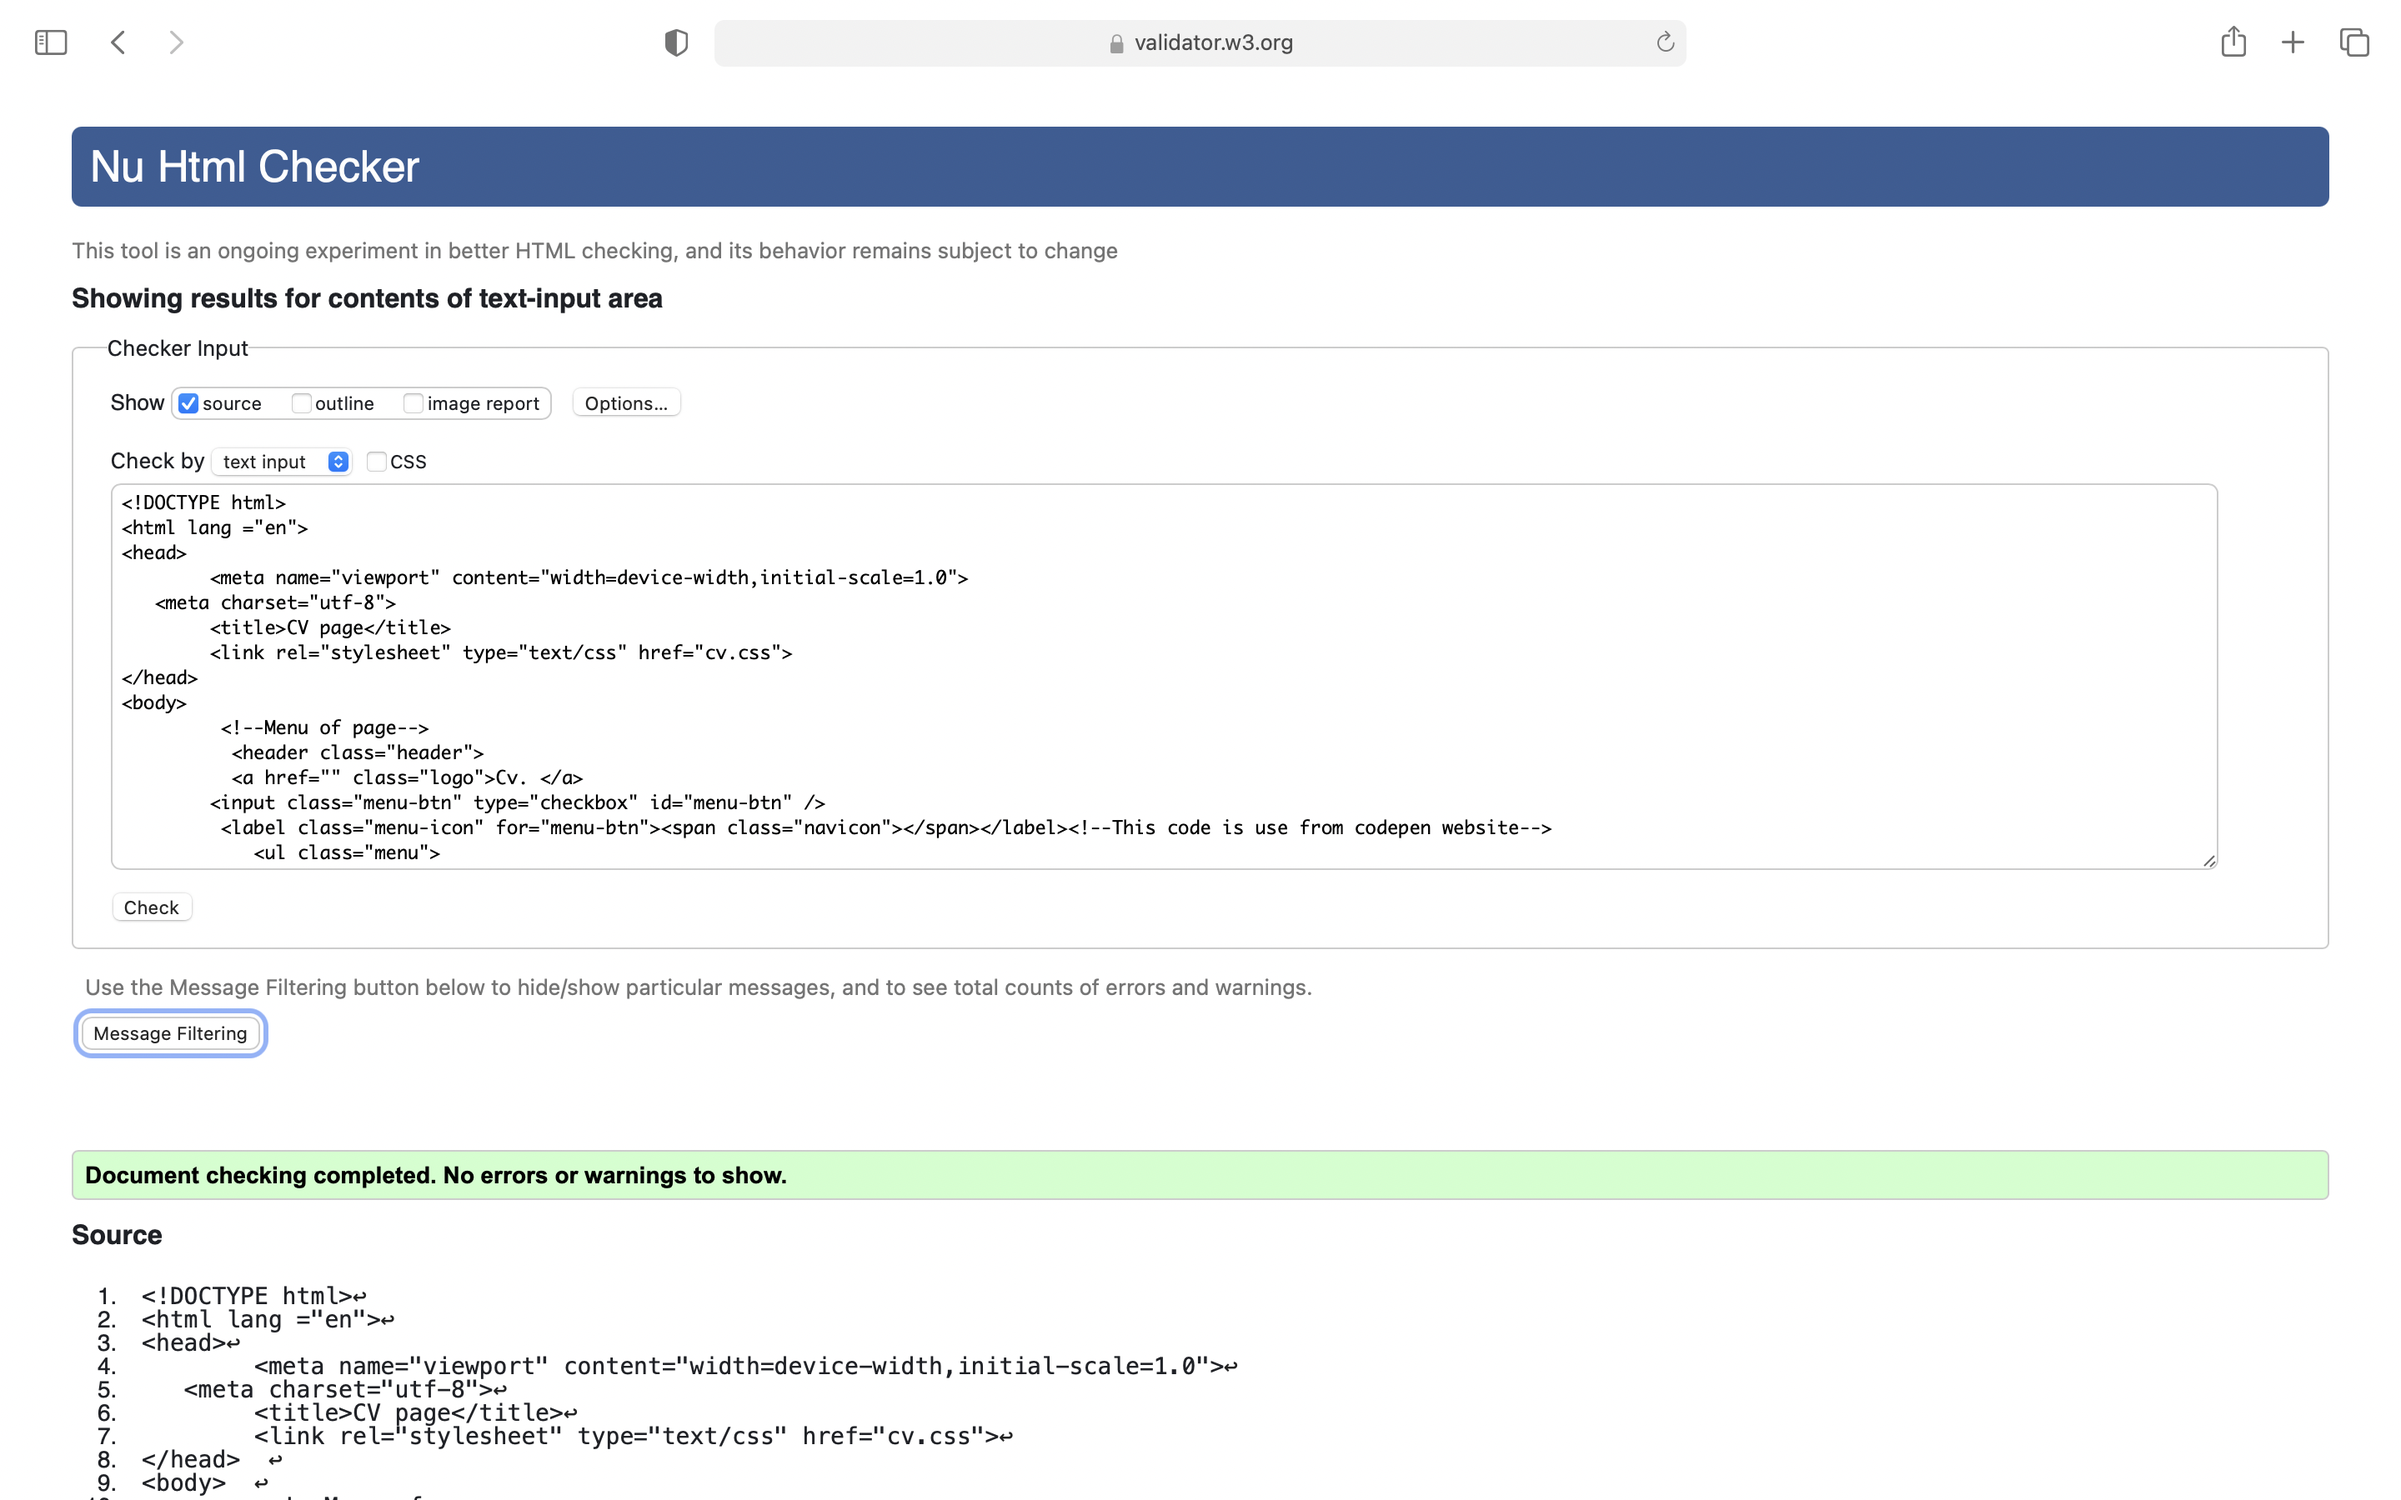
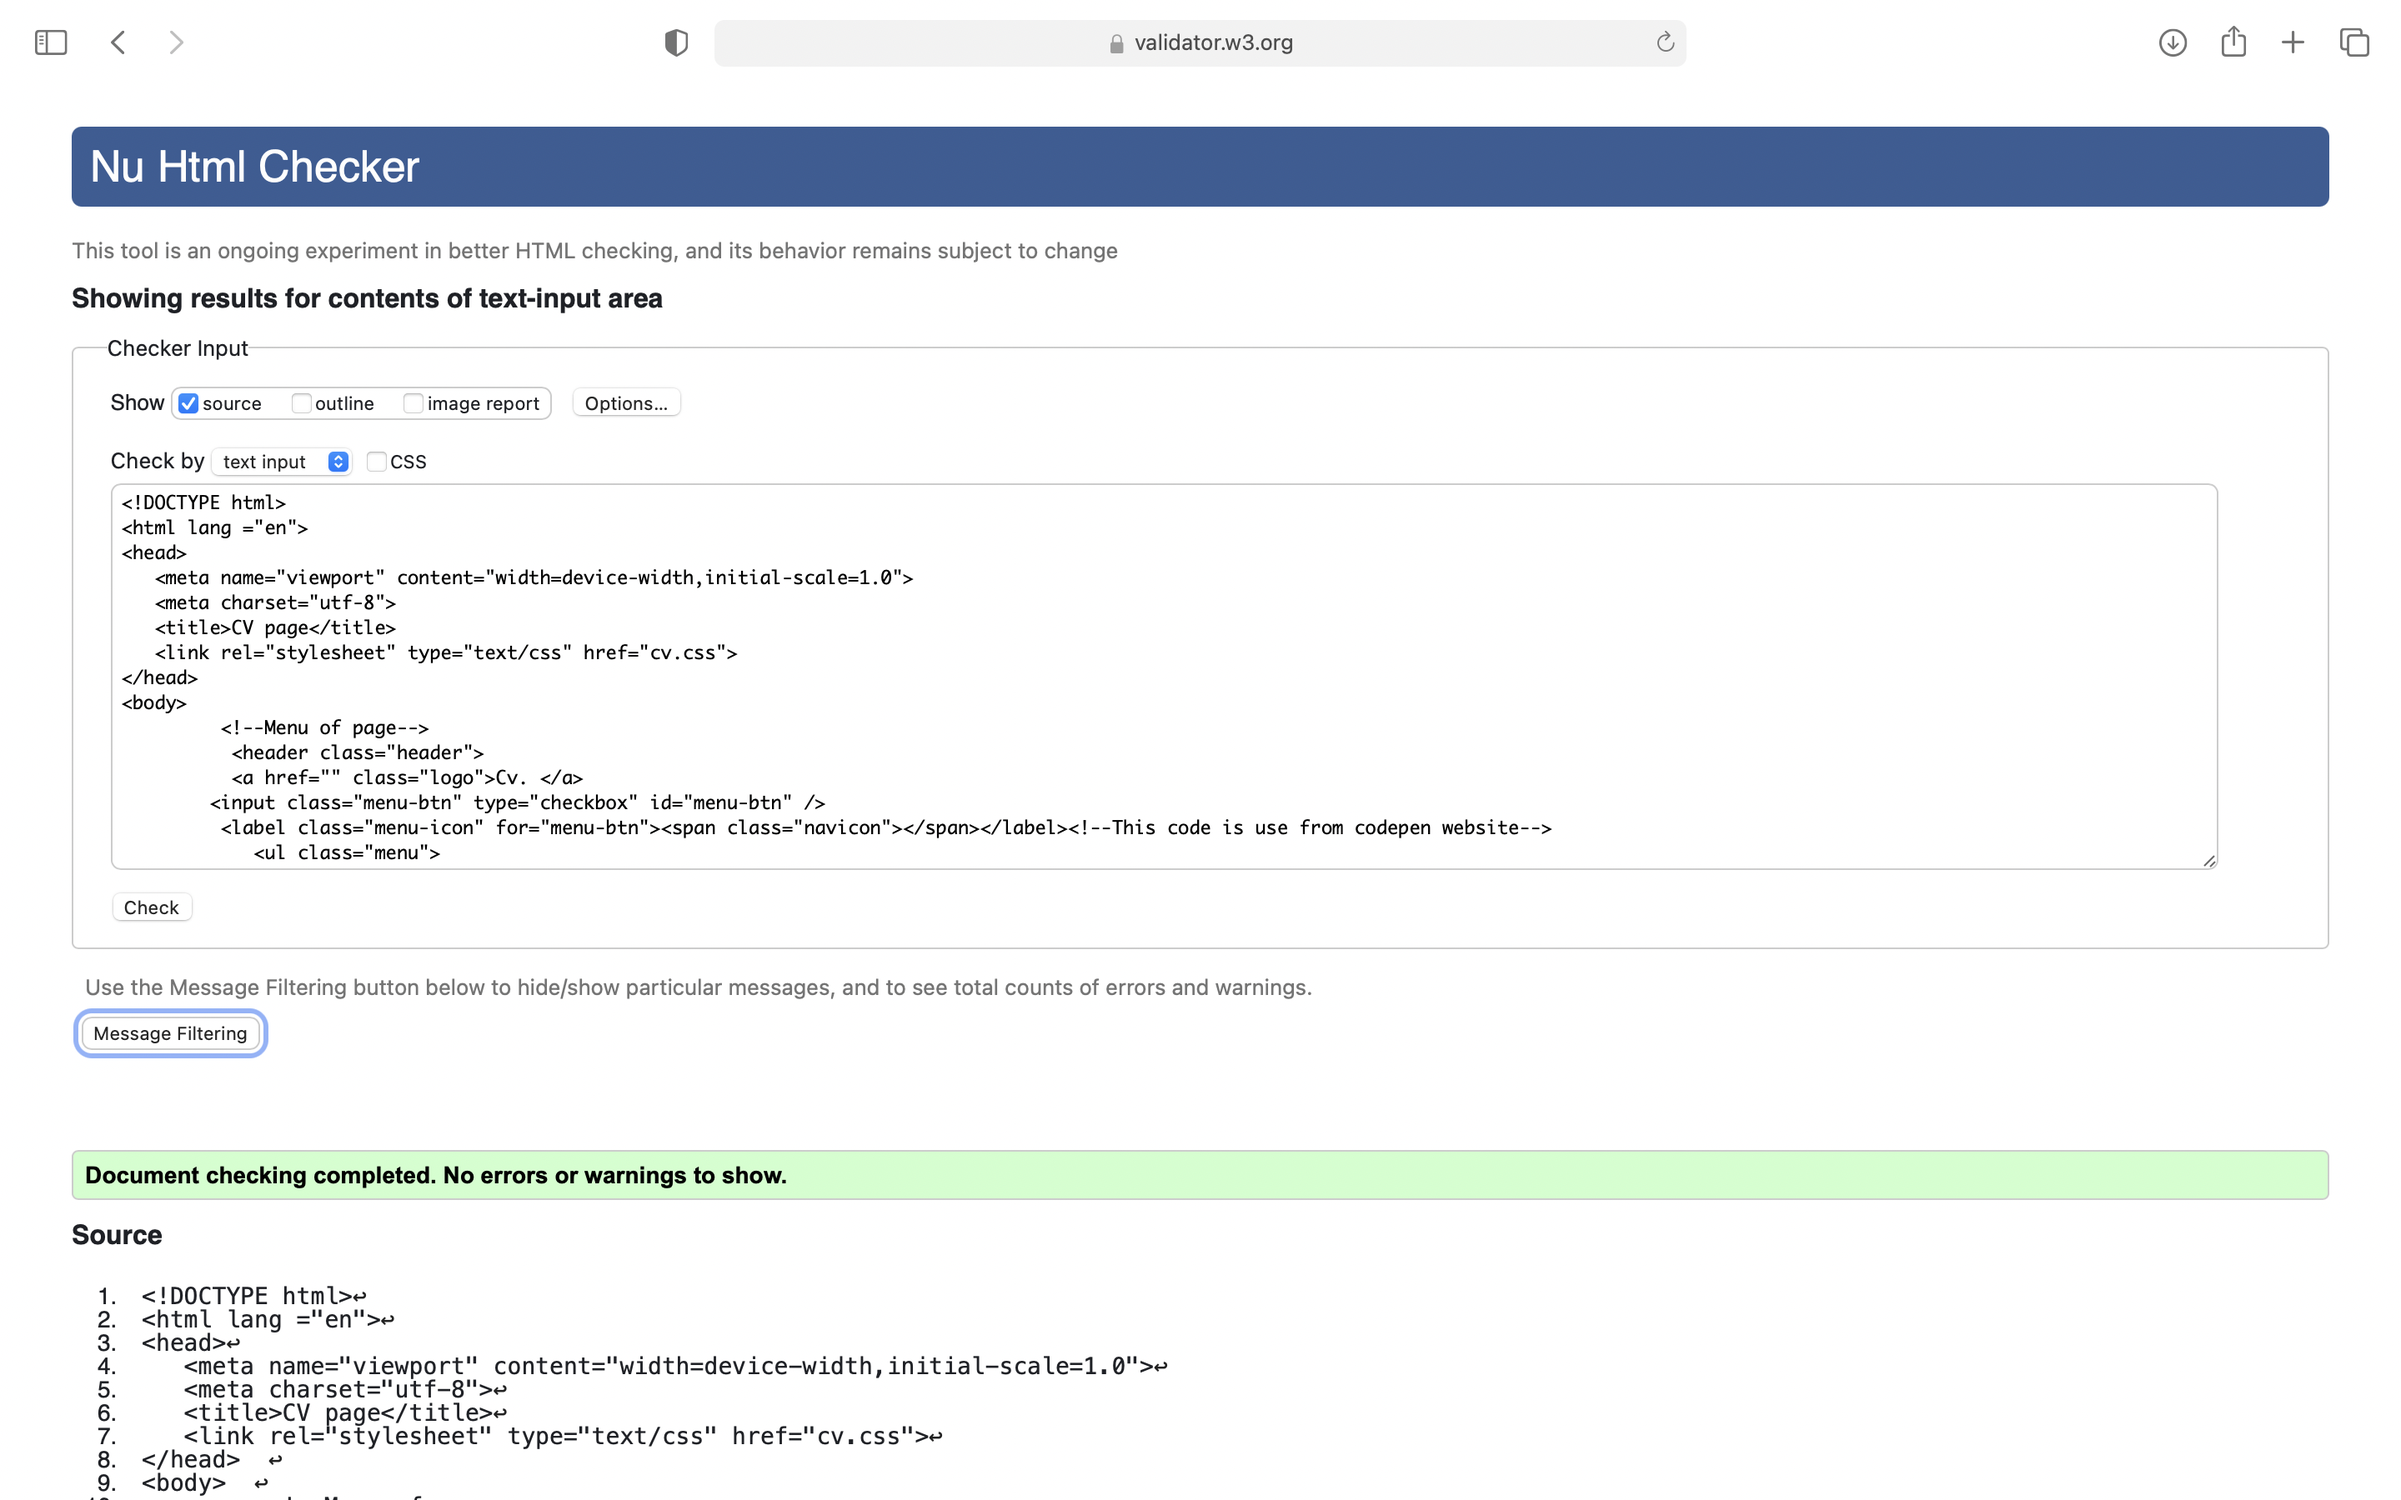
My Assignment

Changed region(s): [[0.0625, 0.9022, 0.5, 0.9644], [0.0625, 0.3733, 0.375, 0.4356]]

diff --git a/cv.html b/cv.html
@@ -1,10 +1,10 @@
 <!DOCTYPE html>
 <html lang ="en">
 <head>
-	<meta name="viewport" content="width=device-width,initial-scale=1.0">
+   <meta name="viewport" content="width=device-width,initial-scale=1.0">
    <meta charset="utf-8">
-	<title>CV page</title>
-	<link rel="stylesheet" type="text/css" href="cv.css">
+   <title>CV page</title>
+   <link rel="stylesheet" type="text/css" href="cv.css">
 </head>  
 <body>  
          <!--Menu of page-->
@@ -21,59 +21,68 @@
      </header>
            
        <!--This is the main content of page--> 
- 	<section>
-		<div >
-		 <h2>Sungava Subedi<br><span>(IT) Student</span></h2>
+   <section>
+      <div>
+            
+       <h2>Sungava Subedi<br><span>(IT) Student</span></h2>
         <h3 class="title">Contact Info:</h3> 
-        <h4>  <!--This is my contact-->      
-           <br>Mobile no: 9873672656 <br>
-           <br>Address: Shankharapur-5,KTM<br>
-           <br>Email Address: sungavasubedi262@gmail.com<br>
-      </h4>
-         <h3 class="title">Qualification:</h3>
+        <menu> <!--This is my contact-->      
+           <li> Phone no: 984264817</li>
+           <li>Address: Shankharapur-5,KTM</li>
+           <li>Email: sungavasubedi262 @gmail.com</li>
+      </menu>
+         <h3 class="title">Academic Qualification:</h3>
        <menu><!--This is my qualifications-->
           <li>SEE passed with grade 3.30</li>
            <li>+2 passed with grade 3.60</li>         
          </menu>
-       <h3 class="title">LANGUAGE:</h3>
-       <menu>
-       	<li><span class="text">English</span><span class="percent"></span></li>
-       	<li><span class="text">Nepali</span><span class="percent"></span></li>
-       	<li><span class="text">Hindi</span><span class="percent"></span></li>
-       	</menu>
-       </div>
-	       <div><!--This is the right side of page-->
-	  	
-		     <h3 class="title">PERSONAL INFORMATION:</h3>
-		    <menu>
-           <!--Personal information of mine-->
-				<li>Father Name:Krishna subedi</li>
-				<li>Mother Name:Karuna subedi</li>
-				<li>Date of Birth:01-03-2003</li>
-				<li>Nationality:Nepali</li>
-				<li>Gender:Female</li>
-	      
-	   </menu>  
-	   <h3 class="title">Skill:</h3>
-	   <menu>
+         <h3 class="title">Skill:</h3>
+      <menu>
             <!--It's show my skill-->
             <li>Programming</li>
             <li>Social Media</li>
             
         </menu>
+       <h3 class="title">LANGUAGE:</h3>
+       <menu>
+         <li><span class="text">English</span><span class="percent"></span></li>
+         <li><span class="text">Nepali</span><span class="percent"></span></li>
+         <li><span class="text">Hindi</span><span class="percent"></span></li>
+         </menu>
+       </div>
+          <div><!--This is the right side of page-->
+      
+           <h3 class="title">PERSONAL INFORMATION:</h3>
+          <menu>
+           <!--Personal information of mine-->
+            <li>Father Name: Krishna subedi</li>
+            <li>Mother Name: Karuna subedi</li>
+            <li>Date of Birth: 01-03-2003</li>
+            <li>Nationality: Nepali</li>
+            <li>Gender: Female</li>
+         
+      </menu>  
+      
+        <h3 class="title">Personalities:</h3>
+      <menu>
+            <!--It's show my personalities-->
+            <li>Approachable</li>
+            <li>Cheerful</li>
+            <li>Energetic</li>
+            <li>Self motivated</li>
+            
+        </menu>
         <h3 class="title">INTEREST:</h3>
       <menu><!--These are the interest-->
-        	   <li>Gaming</li>
-        	   <li>Reading</li>
-        	   <li>Dancing</li>
-        	   <li>Coding</li>        
+            <li>Gaming</li>
+            <li>Reading</li>
+            <li>Dancing</li>
+            <li>Coding</li>        
       </menu>
    </div>
 </section>
 </body>
 </html>
-
-
 
 
 		

diff --git a/cv.css b/cv.css
@@ -1,13 +1,15 @@
 *{
-	margin-top: 0;
-	padding: 0;
+  margin-top: 0;
+  padding: 0;
   box-sizing: border-box;
 }
 /*styling the body of page*/
 body{
+  background-image:url(images3.jpeg);
+  height: 90vh;
+  background-size:cover;
+  background-position:center;
   width: 100%;
-  background-color:grey;
-  
 }
 
 /*header of cv page*/
@@ -150,7 +152,7 @@ body{
 }
 /*styling section of page*/
 section div:first-child{
-  background: palevioletred;
+  background: rgba(172,230,191,0.39);
   padding:50px;
   float: left;
   width: 50%;
@@ -195,10 +197,12 @@ li{
 /*styling section*/
 section div:nth-child(2){
   padding:80px;
-  background: lightblue;
+  background: rgba(191,172,230,0.46);
   float: left;
+  margin-left: 0px;
   margin-top: 7%;
   width: 50%;
+
 }
 menu{
   position: relative;

diff --git a/report.css b/report.css
@@ -5,8 +5,8 @@
 }
 /*styling body of page*/ 
 body{
-	background-color:palevioletred;
-
+	background-color: rgba(0,128,128,0.79);
+  color: black;
 	
 }
 /*header of sitereport page*/
@@ -150,7 +150,7 @@ body{
 }
 /*styling section*/
 section{
-  padding: 60px;
+  padding: 70px;
 
 
 }
